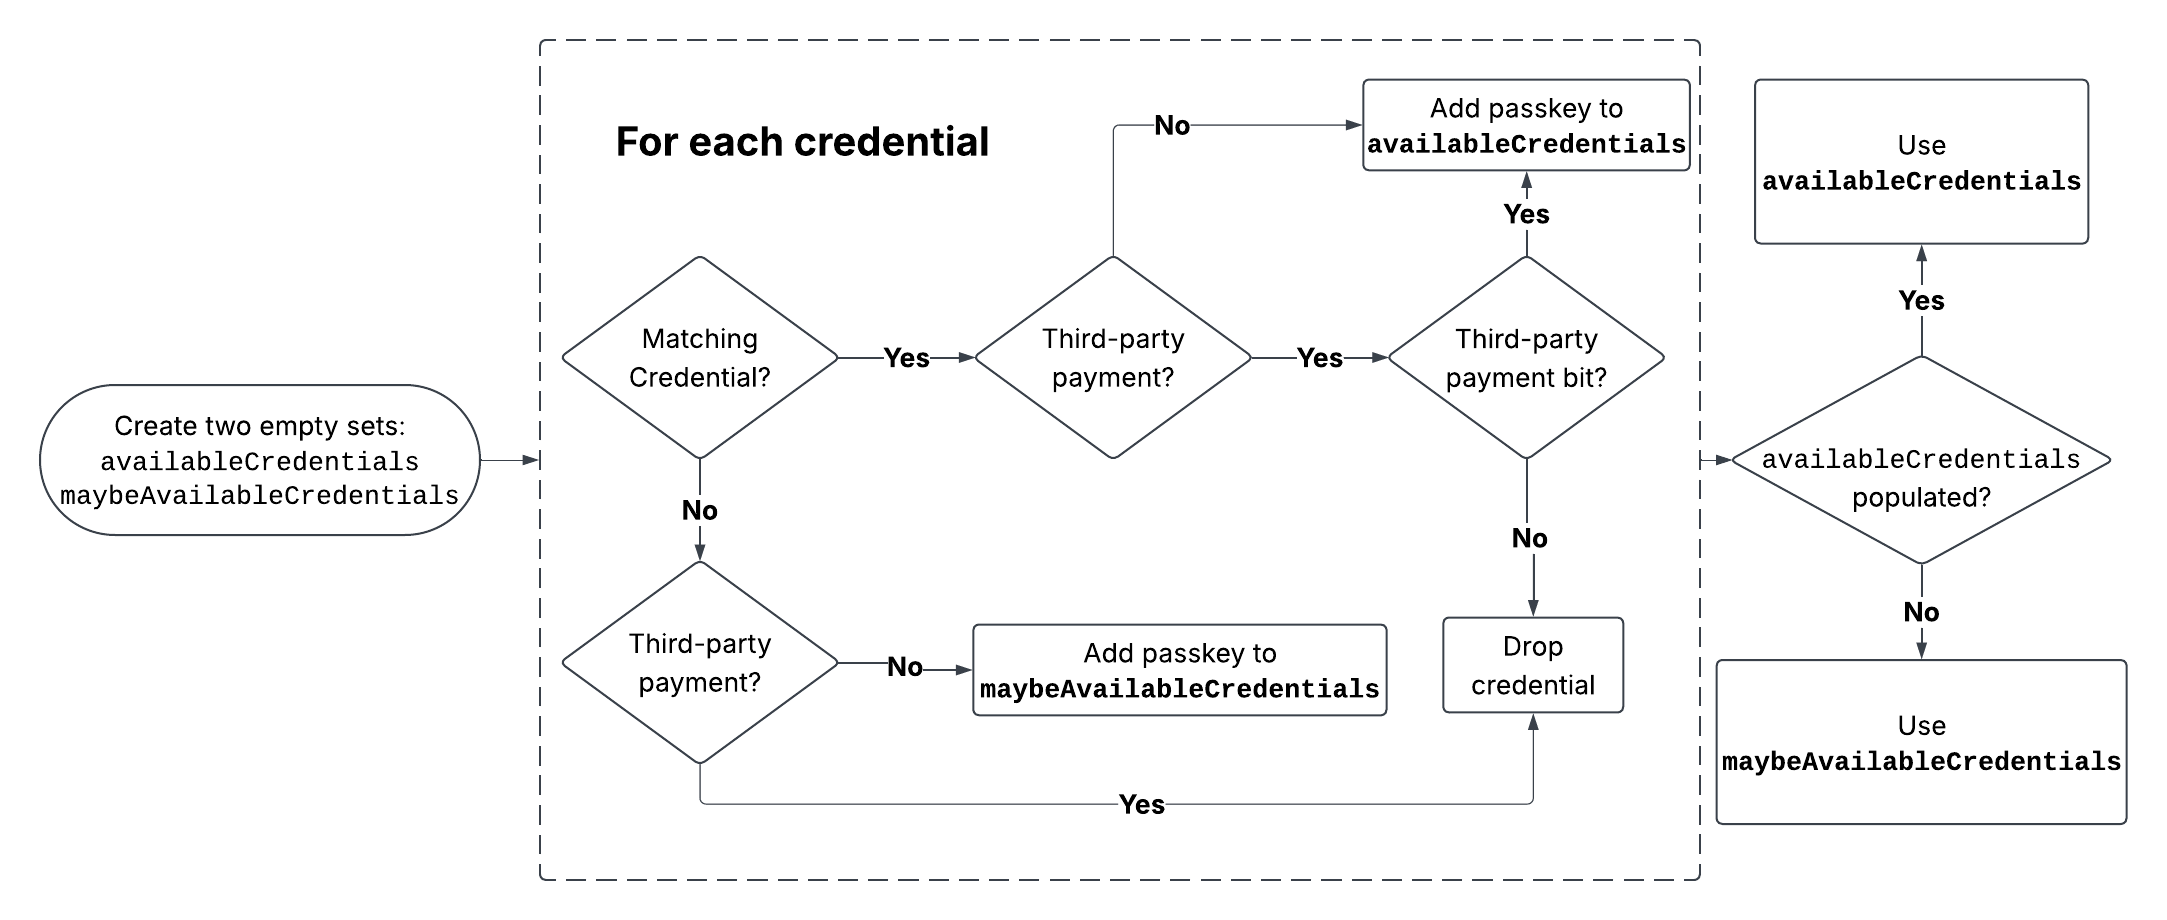
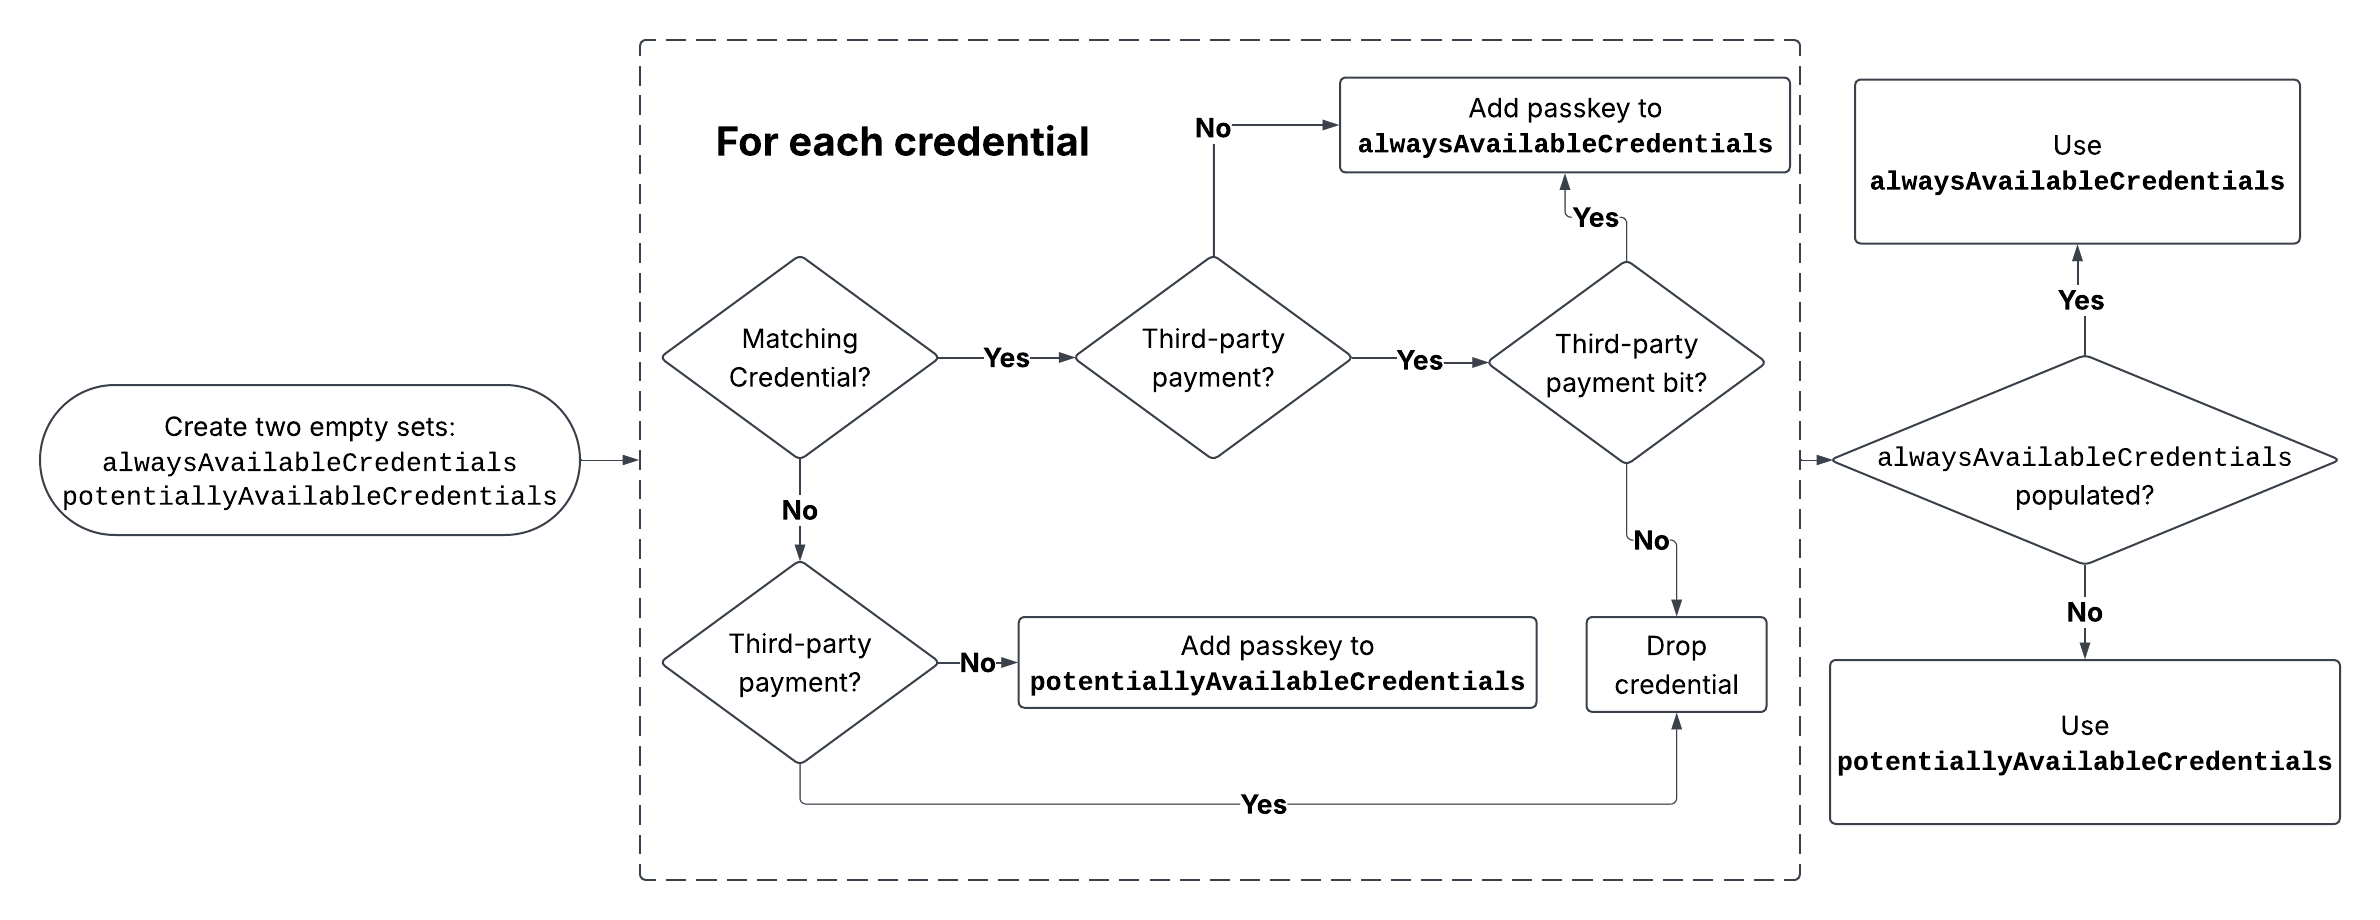
Go through both explainers and make minor fixes.

diff --git a/explainers/non-queryable-authenticators.md b/explainers/non-queryable-authenticators.md
@@ -11,7 +11,7 @@ Stephen McGruer \<smcgruer@chromium.org\>
 
 _Document state: **Proposal**_
 
-_Last updated: 30-Nov-2026_
+_Last updated: 27-Nov-2026_
 
 ## Summary
 
@@ -204,23 +204,23 @@ adapt SPC's design for each category.
 
 ## Proposal
 
-I propose modifying SPC to accommodate the reality that the browser cannot
+We propose modifying SPC to accommodate the reality that the browser cannot
 always know silently if a given passkey will be available or if it has the
 third-party payment bit enabled, whilst still keeping the UX flow as optimal as
 possible for the "happy path" case.
 
-### Partition Candidate Credentials
+### Partition candidate credentials
 
 The proposal is to partition candidate credentials into **definitely available**
 and **potentially available**. It is possible that a credential is dropped if
 it does not fit into either set.
 
 **Definitely available credentials**: contain credentials that can be
-silently detectable and support the third-party payment bit. This is the set of
+silently detected and support the third-party payment bit. This is the set of
 credentials that SPC currently supports.
 
 **Potentially available credentials**: contain credentials that cannot be
-silently detectable (for non-queryable authenticators) and only for first-party
+silently detected (for non-queryable authenticators) and only for first-party
 payment scenarios.
 
 At a specification level, step 5 of [this
@@ -255,7 +255,12 @@ level description, actual specification steps would differ slightly):
 
     1. If the [steps to silently determine if a credential is available for the
        current device](https://w3c.github.io/secure-payment-confirmation/#steps-to-silently-determine-if-a-credential-is-available-for-the-current-device)
-       return false **AND** this is not a third-party case, add the id to `potentiallyAvailableCredentials` and go to the next iteration.
+       return false:
+
+        1. If this is not a third-party case, add the id to
+           `potentiallyAvailableCredentials`.
+
+        2. Go to the next iteration.
 
     2. If this is not a third-party case, add the id to
        `definitelyAvailableCredentials` and go to the next iteration.
@@ -267,12 +272,11 @@ level description, actual specification steps would differ slightly):
 
 > [!IMPORTANT]
 >
-> `potentiallyAvailableCredentials` is not supported in the third-party case
-> because it is required to enforce the third-party payment bit protection. If we
-> cannot query the credential silently, we cannot know whether or not the
-> passkey (if it does exist) is third-party enabled. More on how this can be
-> resolved can be found in a later section on
-> [third-party payment support](#third-party payment-support).
+> `potentiallyAvailableCredentials` is never populated in the third-party case.
+> This preserves the third-party payment bit protection: if we cannot query a
+> credential silently, we cannot know whether that passkey (if it exists) is
+> third-party enabled. See [Third-party payment
+> support](#third-party-payment-support) for a possible way to relax this.
 
 Then later in [Outcome of the transaction confirmation
 UX](https://w3c.github.io/secure-payment-confirmation/#sctn-transaction-confirmation-outcome),
@@ -304,12 +308,12 @@ relevant.
 
 ![Diagram showing how credentials are partitioned as a visual flow](non-queryable-authenticators-image-7.png)
 
-### Using the Potentially Available Credentials
+### Using the potentially available credentials
 
 If the set of definitely available credentials is populated, then that set is
 used with the original SPC flow. If the set of definitely available credentials
 is empty and the set of potentially available credentials is populated, then
-I propose that we allow websites to opt into using this set through two
+we propose allowing websites to opt into using this set through two
 complementary solutions:
 
 1. Allow calling website to require always showing the verification dialog.
@@ -318,12 +322,12 @@ complementary solutions:
 
 The former allows websites to opt into the full transaction UX all the
 time, providing a clearer UX at the cost of potentially sending the user into a
-"cannot proceed" state. The later keeps SPC's current optimal UX flow, while 
+"cannot proceed" state. The latter keeps SPC's current optimal UX flow, while
 providing an 'escape hatch' for cases where a passkey cannot be silently
-detectable but the user knows that they have one (e.g., if they have a security
-key that they can plug in). 
+detected but the user knows that they have one (e.g., if they have a security
+key that they can plug in).
 
-#### Summary of UX Behaviors across Scenarios
+#### Summary of UX behaviors across scenarios
 
 | Authenticator / Credential State | Current SPC Behavior | Proposal 1 (`alwaysShowTransactionDialog`) | Proposal 2 (`showCredentialsInFallback`) |
 | :--- | :--- | :--- | :--- |
@@ -358,7 +362,7 @@ flag).
 
 If `alwaysShowTransactionDialog` is set to true, the browser would always show
 the Transaction UX, and would always trigger WebAuthn afterwards (which might
-then present UX to the user to plugin a security key, use their phone, etc).
+then present UX to the user to plug in a security key, use their phone, etc).
 The default would remain as false to align with current SPC behavior.
 
 At a specification level, the `alwaysShowTransactionDialog` would simply be a
@@ -379,40 +383,44 @@ However, we expect it to be challenging to design a good UX in Chrome
 that offers using a passkey to the user without that being confusing or
 visually poor quality - this is an area we still need to explore more.
 
-**Note**: explicitly displaying the Relying Party identifier (e.g., `"Use
-passkey for bank.example"`) in the fallback UX provides essential clarity in
-third-party payment contexts, where the merchant origin invoking SPC differs
-from the credential issuer.
-
-## Browser Bound Key Support
+## Browser Bound Key support
 
 In the case of multiple definitely available credentials, SPC can arbitrarily
 pick a BBK to use. But if the set of potentially available credentials needs to
 be used and there are multiple credentials in the set, this poses a **BIG
-PROBLEM** for BKK support. Since the BBK needs to be included with the data to
+PROBLEM** for BBK support. Since the BBK needs to be included with the data to
 be signed by the credential, there is no way to know which credential (and
 associated BBK) will be chosen ahead of time.
 
 ![Diagram showing how the wrong BBK can be used](non-queryable-authenticators-image-8.png)
 
-I have two solutions to allow potentially available credentials to work with
+We have two solutions to allow potentially available credentials to work with
 BBKs:
 
-1. **Skip BBKs**: if the set of potentially available credentials contain
-multiple credentials. Websites that require the BBK can invoke SPC with a single
-credential.
+1. **Skip BBKs**: if the set of potentially available credentials contains
+   multiple credentials. Websites that require the BBK can invoke SPC with a
+   single credential.
 
 2. **Update BBKs to a BBK-to-RP relationship**: only a single RP is used for
-each SPC query, so only one BBK will be needed.
+   each SPC query, so only one BBK will be needed. This means that BBKs never
+   need to be skipped, but it comes with trade-offs:
 
-## Third-party Payment Support
+> [!IMPORTANT]
+>
+> **A BBK-to-RP relationship makes accounts linkable.** The BBK requirements
+> assume that users keep online identities apart by using different passkeys. A
+> per-RP BBK would be shared by all of a user's passkeys for that RP in the same
+> browser on the same device, so the RP could link those accounts (e.g., a
+> personal and a business account at the same bank).
+
+## Third-party payment support
 
 As mentioned previously, SPC enforces third-party payment bit protection where
 if the third-party payment bit cannot be checked ahead of time (the case for
 all potentially available credentials) then `rp.com` cannot be shown in the
 WebAuthn dialog.
 
-A simple solution to this could be ot regress on the promise to never show
+A simple solution to this could be to regress on the promise to never show
 `rp.com` in the WebAuthn flow unless `rp.com` has set the third-party payment
 bit on their credentials. Instead we would only promise (of course!) that the
 browser will never return the signed cryptogram to the calling website if we

diff --git a/explainers/roaming-authenticators.md b/explainers/roaming-authenticators.md
@@ -11,7 +11,7 @@ Stephen McGruer \<smcgruer@chromium.org\>
 
 _Document state: **Proposal**_
 
-_Last updated: 28-Jul-2026_
+_Last updated: 27-Nov-2026_
 
 ## Summary
 
@@ -19,7 +19,8 @@ This explainer proposes loosening the restrictions on SPC-related credentials
 to allow non-platform authenticators with non-internal transports. Doing so
 would allow user agents to support connected roaming authenticators (e.g., a
 plugged-in security key) with SPC's current flow. This proposal also goes over
-how we will support non-connected roaming authenticators.
+how we will support non-connected roaming authenticators, initially for
+first-party payments only.
 
 This proposal should have no impact on integrators of SPC who do not want to
 allow roaming authenticators, other than its reliance on [issue
@@ -55,7 +56,7 @@ WebAuthn layer would only look for "internal" transports (i.e. those offered by
 platform authenticators).
 
 The restriction to only allow platform authenticators was originally put in
-place for two reasons that I am aware of:
+place for two reasons that we are aware of:
 
 1. Initial Relying Parties for SPC were only interested in platform
    authenticators, and not supporting roaming authenticators simplified the
@@ -161,19 +162,35 @@ proprietary).
 ## Supporting non-connected roaming authenticators
 
 A separate explainer was written that goes over support for [non-queryable
-authenticators](https://github.com/w3c/secure-payment-confirmation/blob/main/explainers/non-queryable-authenticators.md) which the non-connected roaming authenticator
-is one of. This explainer will not go into support for non-queryable
-authneticators in detail but will summarize the options that will lead to the
-quickest way to support non-connect roaming authenticators:
+authenticators](non-queryable-authenticators.md), of which non-connected roaming
+authenticators are one kind. This explainer will not go into support for
+non-queryable authenticators in detail but will summarize the options that will
+lead to the quickest way to support non-connected roaming authenticators:
 
-1. **Partition Candidate Credentials**: into *definitely available* and
-*potentially available* credentials (the latter which represents non-connected
-roaming authenticators).
+1. **Partition candidate credentials**: into *definitely available* and
+   *potentially available* credentials (the latter of which would include
+   credentials on non-connected roaming authenticators).
 
 2. **Allow calling website to require always showing the verification dialog**:
-so that websites that know that the user has a roaming authenticator can
-prompt the user to connect it if needed.
+   so that websites that know that the user has a roaming authenticator can
+   prompt the user to connect it if needed.
 
-3. **Skip BBKs if the set of potentially available credentials contain multiple
-credentials**: as by definition, a roaming authenticator indicates that the user
-physically has the authenticating device and so the BBK is not needed.
+3. **Skip BBKs if the set of potentially available credentials contains
+   multiple credentials**: as by definition, a roaming authenticator indicates
+   that the user physically has the authenticating device and so the BBK is not
+   needed.
+
+> [NOTE]
+>
+> The first iteration of support for non-connected roaming authenticators will
+> only cover first-party payments, where the calling website is the Relying
+> Party. In third-party payments, SPC only uses credentials that it has
+> silently confirmed to have the third-party payment bit, but the browser
+> cannot check for the bit on an authenticator that is not connected. See
+> [third-party payment
+> support](non-queryable-authenticators.md#third-party-payment-support) for how
+> this restriction could be lifted in a later iteration.
+>
+> This does not affect connected roaming authenticators: as described in the
+> [proposal](#proposal), the browser can silently check them for the third-party
+> payment bit, so they can be used for third-party payments too.
